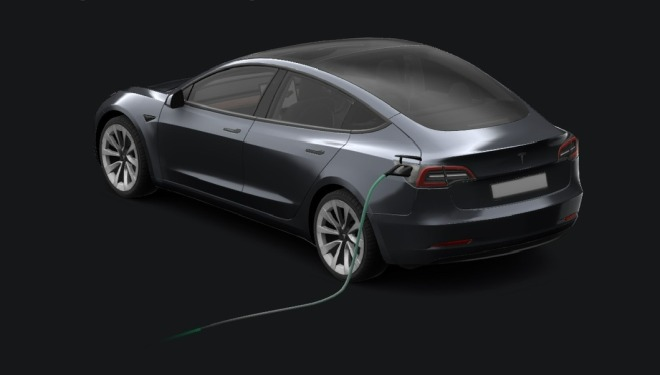
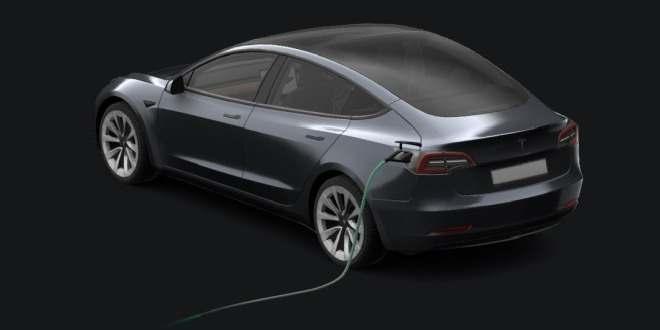
Highland Model 3: the three side photos now share one frame
Same problem as the white Juniper in v1.1.10.

Plugged and charging were the same render at the same scale, just on
canvases 330 and 375 tall, so charging only needed cropping 14 rows up.
No resampling at all. Parked is a different camera angle and needed
scaling by 1.040 to match. Correlation was no help there, it gave ncc
0.16 and a wrong answer that looked plausible; silhouette width and
height both said 1.04, and at that scale the car's box lines up with the
plugged frame on all four edges.

Road angle stays at -21.8. The canvas height did not change, so only the
marking's height moves. The Juniper's angle changed because its canvas
went 330 to 400.

Filling the margin the upscale left with a flat (20,20,20) put a seam
along the top. This pack's background is (22,23,25). It replicates the
nearest covered row now instead of guessing.

Five new tests, and the suite now reads PACKS_SHIPPED out of the source
and checks every shipped pack has a cable, wheels and a road line inside
the frame. That is exactly what the blue Juniper was missing. It already
fails on PR #5.

191 tests.

diff --git a/test/run.js b/test/run.js
@@ -18,6 +18,13 @@ const { chromium } = require("playwright");
 
 const CARD = path.join(__dirname, "..", "tesla-fleet-card.js");
 
+/* Every pack the card says it ships, read out of PACKS_SHIPPED in the source
+   rather than retyped here, so a pack added later is covered by the
+   completeness checks without anybody remembering to update this file. */
+const SHIPPED_DIRS = (fs.readFileSync(CARD, "utf8")
+  .match(/dir:\s*"(models\/[^"]+)"/g) || [])
+  .map((m) => m.replace(/.*"(models\/[^"]+)".*/, "$1"));
+
 let passed = 0;
 const failures = [];
 function check(name, actual, expected) {
@@ -742,7 +749,7 @@ function customStates(p) {
                image_charging: "/local/x/models/3/grey/app/side-charging.jpg",
                image_side_plugged: "/local/x/models/3/grey/app/side-plugged.jpg",
                image_side: "/local/x/models/3/grey/app/side.jpg" }, states(true, true));
-      R.m3_path_is_own = dash(c) ? dash(c).getAttribute("d").indexOf("M 63.2 96.5") === 0 : false;
+      R.m3_path_is_own = dash(c) ? dash(c).getAttribute("d").indexOf("M 63.2 105.1") === 0 : false;
       R.m3_path_not_ymodel = dash(c) ? dash(c).getAttribute("d").indexOf("M 74.8") !== 0 : false;
       c.remove();
     })();
@@ -874,6 +881,7 @@ function customStates(p) {
      one pack folder and 404 for everything else. That is exactly the situation
      on GitHub raw today: models/3/grey/app exists and is the Highland pack,
      and no models/3-classic/grey/app exists yet. */
+  await page.evaluate((d) => { window.__SD = d; }, SHIPPED_DIRS);
   Object.assign(r, await page.evaluate(async (customStatesSrc) => {
     const customStates = eval("(" + customStatesSrc + ")");
     const R = {};
@@ -935,6 +943,7 @@ function customStates(p) {
       };
       window.__multi = mk;
     })();
+    window.__shippedDirs = window.__SD;
     /* A renamed pack folder must keep its measured geometry. The numbers were
        measured from the PHOTOGRAPHS, so `models/3-highland/grey/app` and the
        historical `models/3/grey/app` are the same photo set and must resolve
@@ -1008,6 +1017,67 @@ function customStates(p) {
        to ROAD_DEFAULT would put its marking at the clamp, y = 105 */
     R.jun_road_measured = R.jun_blue_geom.roadY !== null
                           && Math.abs(parseFloat(R.jun_blue_geom.roadY) - 105) > 1;
+
+    /* ---- EVERY shipped pack gets all three overlays --------------------
+       The blue Juniper pack shipped with a cable and wheels but no measured
+       road, so it fell through to the default, which is derived from the car
+       box and clamped to the bottom of the frame. On its taller canvas that
+       clamp landed off the edge and the driving view had no road marking at
+       all, through an approval and a release, because every existing test
+       asked about one pack at a time and this one was about a pack MISSING
+       from a table.
+
+       So this walks the shipped list itself. A pack added later with an
+       incomplete set of measurements fails here rather than looking fine
+       until somebody puts that car in drive. */
+    const packGeom = (dir) => {
+      const c = document.createElement("tesla-fleet-card");
+      document.body.appendChild(c);
+      c.setConfig({ type: "custom:tesla-fleet-card", cars: [{
+        name: "S", model: "Model Y", paint: "white", prefix: "s_", cable: "baked",
+        images: "/local/x/images/" + dir,
+        image_side:         "/local/x/images/" + dir + "/side.jpg",
+        image_side_plugged: "/local/x/images/" + dir + "/side-plugged.jpg",
+        image_charging:     "/local/x/images/" + dir + "/side-charging.jpg" }] });
+      const st = {
+        "binary_sensor.s_online":   { entity_id: "binary_sensor.s_online",   state: "on",  attributes: {} },
+        "binary_sensor.s_charger":  { entity_id: "binary_sensor.s_charger",  state: "on",  attributes: {} },
+        "binary_sensor.s_charging": { entity_id: "binary_sensor.s_charging", state: "on",  attributes: {} }
+      };
+      c.hass = { states: st };
+      const dash = c.shadowRoot.getElementById("restCableDash");
+      const cable = dash ? dash.getAttribute("d") : null;
+      /* now the same car in drive, for the wheels and the road */
+      c.remove();
+      const d = document.createElement("tesla-fleet-card");
+      document.body.appendChild(d);
+      d.setConfig({ type: "custom:tesla-fleet-card", cars: [{
+        name: "S", model: "Model Y", paint: "white", prefix: "s_",
+        images: "/local/x/images/" + dir,
+        image_side: "/local/x/images/" + dir + "/side.jpg" }] });
+      d.hass = { states: {
+        "binary_sensor.s_online": { entity_id: "binary_sensor.s_online", state: "on", attributes: {} },
+        "sensor.s_shift_state":   { entity_id: "sensor.s_shift_state", state: "D", attributes: {} },
+        "device_tracker.s_location_tracker": { entity_id: "device_tracker.s_location_tracker",
+          state: "not_home", attributes: { latitude: 1, longitude: 2, speed: 40 } } } };
+      const o = d.shadowRoot.getElementById("driveOvl");
+      const line = o ? o.querySelector("line") : null;
+      const y1 = line ? parseFloat(line.getAttribute("y1")) : null;
+      const y2 = line ? parseFloat(line.getAttribute("y2")) : null;
+      const clips = o ? o.querySelectorAll("clipPath[id^=dwC] ellipse").length : 0;
+      d.remove();
+      return { cable: !!cable, clips, roadMid: (y1 !== null && y2 !== null) ? (y1 + y2) / 2 : null };
+    };
+    R.shipped_dirs = window.__shippedDirs || null;
+    R.shipped_geom = (window.__shippedDirs || []).map((dir) => {
+      const g = packGeom(dir);
+      return { dir,
+               cable: g.cable,
+               wheels: g.clips > 0,
+               /* a marking the viewer can actually see: inside the 108-unit
+                  view with room for its own stroke, not pinned to the clamp */
+               road: g.roadMid !== null && g.roadMid > 60 && g.roadMid < 106 };
+    });
 
     R.pack_multi_car = await (async () => {
       const [c, st] = window.__multi();
@@ -1352,6 +1422,13 @@ function customStates(p) {
   check("both Junipers use one road",         r.jun_blue_geom.roadY, r.jun_white_geom.roadY);
   check("the Juniper road is measured",       r.jun_road_measured, true);
   check("no models/y-juniper-juniper alias",  r.jun_no_double_alias, true);
+
+  console.log("\nevery shipped pack has all three overlays");
+  check("the shipped list was found", (r.shipped_dirs || []).length >= 4, true);
+  (r.shipped_geom || []).forEach((g) => {
+    check(g.dir + ": cable, wheels and a visible road",
+      [g.cable, g.wheels, g.road], [true, true, true]);
+  });
 
   console.log("\nthe Generation field");
   check("a 2023 Model 3 is asked",         r.gen_field_ambiguous, ["", "highland", "classic"]);

diff --git a/tesla-fleet-card.js b/tesla-fleet-card.js
@@ -8,7 +8,7 @@
 (function () {
   "use strict";
 
-  const CARD_VERSION = "1.1.10";
+  const CARD_VERSION = "1.1.11";
 
   const PATTERNS = {
     battery: "sensor.{p}battery",
@@ -265,11 +265,35 @@
       "C 134.0 57.3 135.4 56.3 135.9 55.9"
   };
 
+  /* The Highland Model 3 pack was re-framed on the same day and the same rule,
+     but by a different route, and the difference is instructive.
+
+     Its plugged and charging photos turned out to be the SAME app render at the
+     same scale, differing only in canvas height, 330 against 375: edge-gradient
+     correlation put them at scale 1.000, offset (0, -14), ncc 0.96. So charging
+     became plugged's frame by a pure crop, 14 rows up, with no resampling at
+     all. Only the parked photo needed rescaling, by 1.040.
+
+     That scale could NOT come from correlation, because parked is a front
+     three-quarter render and the other two are rear three-quarter: the peak sat
+     at ncc 0.16, which is the tell that a correlation answer is worthless. It
+     came instead from two invariants that do survive a change of pose,
+     silhouette width (487/468 = 1.041) and silhouette height (293/282 = 1.039),
+     which agree. The check that it was right: at that scale, with the bottom
+     edge aligned, all four edges of the car's box land on the plugged frame's,
+     which nothing in the fit was asking for.
+
+     AND THE ROAD ANGLE HERE DID NOT CHANGE, where the Juniper's did. That is
+     not an inconsistency. The Juniper's canvas went from 330 to 400, so the
+     view's y squash changed and the angle had to be re-derived; the Highland
+     stayed on 330 and the transform is a uniform scale, so the angle in view
+     units is untouched and only the line's height moves. The rule is that the
+     angle follows the CANVAS, not the crop. */
   const PACK_ROAD = {
     "models/y/red/app":          { angle: -21.9, lines: [[93.3, 2.2]] },
     "models/y/white/app":        Y_JUNIPER_SIDE.road,
     "models/y-juniper/blue/app": Y_JUNIPER_SIDE.road,
-    "models/3/grey/app":         { angle: -21.8, lines: [[97.6, 2.2]] }
+    "models/3/grey/app":         { angle: -21.8, lines: [[103.1, 2.3]] }
   };
   /* An unmeasured photo still gets a marking: the measured car box's bottom
      edge lands about 2 units below the tyre contact line on all three bundled
@@ -412,8 +436,8 @@
                                    rear: [185.2, 47.8, 0.85] },
     "models/y/white/app":        Y_JUNIPER_SIDE.wheels,
     "models/y-juniper/blue/app": Y_JUNIPER_SIDE.wheels,
-    "models/3/grey/app":         { lift: 1.06, front: [107.0, 81.4, 15.19, 10.33, 95.7],
-                                   rear: [187.8, 50.7, 0.86] }
+    "models/3/grey/app":         { lift: 1.06, front: [107.4, 86.3, 15.80, 10.74, 95.7],
+                                   rear: [191.4, 54.4, 0.86] }
   };
 
   /* expand rear: [cx, cy, scale] into a full ellipse using the front's shape */
@@ -710,19 +734,19 @@
 
   const PACK_CABLE_PATH = {
     "models/3/grey/app":
-      "M 63.2 96.5 C 63.9 96.3 65.8 95.7 67.1 95.4 C 68.5 95.0 69.8 94.7 71.1 94.4 " +
-      "C 72.5 94.0 73.8 93.6 75.1 93.3 C 76.4 93.0 77.8 92.7 79.1 92.4 " +
-      "C 80.5 92.1 81.8 91.9 83.2 91.6 C 84.6 91.4 85.9 91.2 87.3 90.9 " +
-      "C 88.7 90.7 90.0 90.5 91.4 90.3 C 92.8 90.1 94.1 89.9 95.5 89.7 " +
-      "C 96.9 89.4 98.2 89.2 99.6 89.0 C 101.0 88.8 102.3 88.6 103.7 88.3 " +
-      "C 105.1 88.1 106.4 87.9 107.8 87.7 C 109.1 87.4 110.5 87.2 111.8 86.9 " +
-      "C 113.2 86.5 114.5 86.2 115.7 85.7 C 117.0 85.2 118.3 84.6 119.2 83.8 " +
-      "C 120.2 83.0 120.8 82.0 121.4 81.0 C 122.1 80.0 122.6 78.9 123.2 77.9 " +
-      "C 123.7 76.9 124.5 75.9 124.8 74.8 C 125.2 73.7 125.3 72.5 125.5 71.4 " +
-      "C 125.8 70.3 126.1 69.2 126.4 68.1 C 126.7 67.0 127.0 65.9 127.3 64.8 " +
-      "C 127.6 63.7 127.8 62.5 128.2 61.4 C 128.5 60.3 128.8 59.2 129.3 58.1 " +
-      "C 129.8 57.1 130.2 56.0 130.9 55.0 C 131.6 54.0 132.4 53.1 133.3 52.2 " +
-      "C 134.2 51.4 135.8 50.2 136.3 49.8",
+      "M 63.2 105.1 C 63.9 104.9 65.8 104.2 67.1 103.8 C 68.5 103.4 69.8 103.0 71.1 102.7 " +
+      "C 72.5 102.2 73.8 101.8 75.1 101.4 C 76.4 101.1 77.8 100.7 79.1 100.4 " +
+      "C 80.5 100.1 81.8 99.8 83.2 99.5 C 84.6 99.2 85.9 99.0 87.3 98.7 " +
+      "C 88.7 98.5 90.0 98.2 91.4 98.0 C 92.8 97.8 94.1 97.5 95.5 97.3 " +
+      "C 96.9 97.0 98.2 96.8 99.6 96.5 C 101.0 96.3 102.3 96.1 103.7 95.8 " +
+      "C 105.1 95.5 106.4 95.3 107.8 95.1 C 109.1 94.8 110.5 94.5 111.8 94.2 " +
+      "C 113.2 93.8 114.5 93.4 115.7 92.8 C 117.0 92.3 118.3 91.6 119.2 90.6 " +
+      "C 120.2 89.7 120.8 88.6 121.4 87.4 C 122.1 86.3 122.6 85.1 123.2 83.9 " +
+      "C 123.7 82.8 124.5 81.7 124.8 80.4 C 125.2 79.2 125.3 77.8 125.5 76.5 " +
+      "C 125.8 75.3 126.1 74.0 126.4 72.8 C 126.7 71.5 127.0 70.3 127.3 69.0 " +
+      "C 127.6 67.8 127.8 66.4 128.2 65.2 C 128.5 63.9 128.8 62.7 129.3 61.4 " +
+      "C 129.8 60.3 130.2 59.0 130.9 57.9 C 131.6 56.8 132.4 55.7 133.3 54.7 " +
+      "C 134.2 53.8 135.8 52.5 136.3 52.0",
     "models/y/white/app":        Y_JUNIPER_SIDE.cable,
     "models/y-juniper/blue/app": Y_JUNIPER_SIDE.cable,
     "models/y/red/app":

diff --git a/docs/pack-images.md b/docs/pack-images.md
@@ -40,12 +40,19 @@ the one it looked right on.
 | `topdown-charging.jpg` | 720 × 1284 | Same, charging. |
 | `climate.jpg` | 720 × 1200 | Interior top-down. |
 
-Background `#141414`. The three side photos must agree with each other on
-canvas **and** on where the car sits within it; the reference is the Juniper
-Model Y pack at `images/models/y-juniper/blue/app/`.
+Background `#141414`. 660 × 400 is the size to build a **new** pack at, and the
+Juniper Model Y pack at `images/models/y-juniper/blue/app/` is the reference for
+one: car about 580 px wide, centre near x = 330.
 
-The car should come out about 580 px wide with its centre near x = 330. Judge
-it by measurement, not by eye: crop until the numbers match, then check.
+**The shipped packs are not all on that canvas, and that is fine.** The two
+Juniper Model Ys are 660 × 400 with the car about 580 wide; the pre-refresh
+Model Y and the Highland Model 3 are 660 × 330 with the car about 470. What
+matters is not which canvas a pack uses but that **its own three side photos
+agree with each other**, because the measurements are per pack. Re-cropping a
+working pack onto a different canvas buys nothing and costs a full re-measure,
+so leave a consistent pack alone whatever size it is.
+
+Judge it by measurement, not by eye: crop until the numbers match, then check.
 
 ```python
 from PIL import Image
@@ -87,6 +94,27 @@ independent routes to the same number; when the white pack was re-framed they
 agreed to a thousandth (1.155 / 1.225 / 1.060). One method alone would not have
 been worth trusting.
 
+**Correlation only works between frames of the same render.** The plugged and
+charging photos usually are the same render, so they correlate at ncc above 0.9
+and the answer is exact. The parked photo is often a different camera angle
+entirely, and there correlation returns confident nonsense: on the Highland pack
+it peaked at ncc 0.16 and claimed a scale 2% away from the truth. **An ncc below
+about 0.3, or a peak sitting at the edge of the search range, means the answer
+is worthless.** Fall back to invariants that survive a change of pose, and use
+more than one: the silhouette's width and its height gave 1.041 and 1.039 for
+the Highland parked frame, and agreeing is what made them usable.
+
+**Watch for a free ride.** If the two frames really are the same render at
+different scales, cropping one and scaling the other is a pure translation and
+no resampling is needed at all. The Highland charging photo turned out to be its
+plugged photo on a taller canvas, offset by 14 rows, so it was fixed by a crop
+and lost nothing.
+
+**Do not guess the fill colour** when a re-frame leaves uncovered margin.
+Replicate the nearest covered row instead. The Highland ground is `(22, 23, 25)`,
+faintly blue rather than neutral, and a flat `(20, 20, 20)` fill left a seam
+along the top edge that was invisible in the numbers and obvious on screen.
+
 ## Re-measure whatever the re-frame invalidated
 
 Changing the photos invalidates every constant measured against them. In
@@ -118,6 +146,12 @@ This is also why the three original packs all reading about -21.8° was
 meaningful -- they shared a canvas. Once they do not, the numbers are no longer
 comparable, and a Juniper pack reading -18.3° next to a classic one reading
 -21.8° is correct rather than a typo.
+
+The corollary is the useful half: **the angle follows the canvas, not the crop.**
+The Highland pack was re-framed on the same day as the white Juniper and its
+angle did not change at all, because it stayed on a 660 × 330 canvas and the
+transform was a uniform scale. Only the line's height moved. So re-derive the
+angle when the canvas height changes, and leave it alone when it does not.
 
 ## One pack in two colours
 

diff --git a/README.md b/README.md
@@ -117,6 +117,11 @@ A pack is seven JPEGs with these names and sizes:
 | `side.jpg` | 660 × 400 | Resting ¾ view, centred. |
 | `side-plugged.jpg` | 660 × 400 | Same framing, cable attached. |
 | `side-charging.jpg` | 660 × 400 | Same framing, charging, cable in shot. |
+
+Those side sizes are for a **new** pack. Two of the four bundled packs are
+660 × 330 instead, which is fine: the measurements are per pack, so what matters
+is that a pack's own three side photos agree with each other, not which canvas
+it uses.
 | `climate.jpg` | 720 × 1200 | Interior top-down: dash ~10 % down, front seats ~27 %, rear bench ~48 %. |
 
 Make your own from your own Tesla app: screenshot the app's home screen
